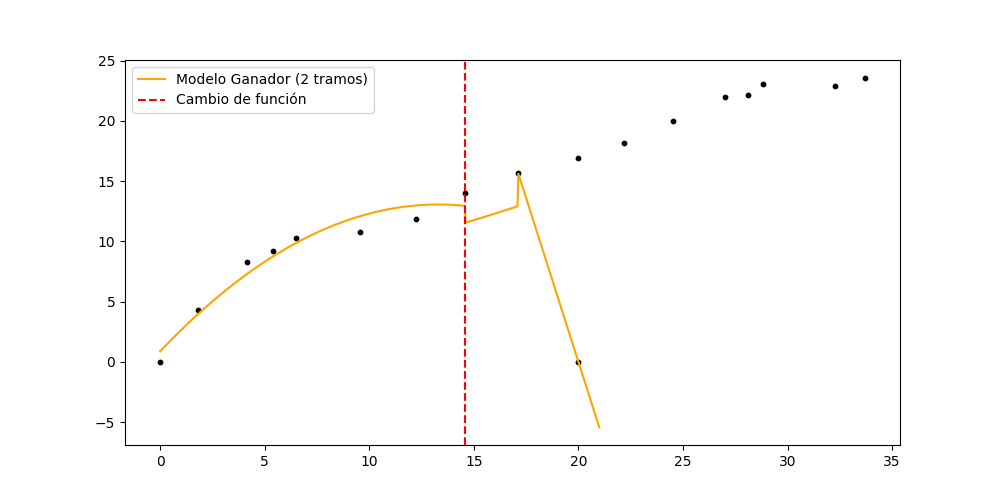
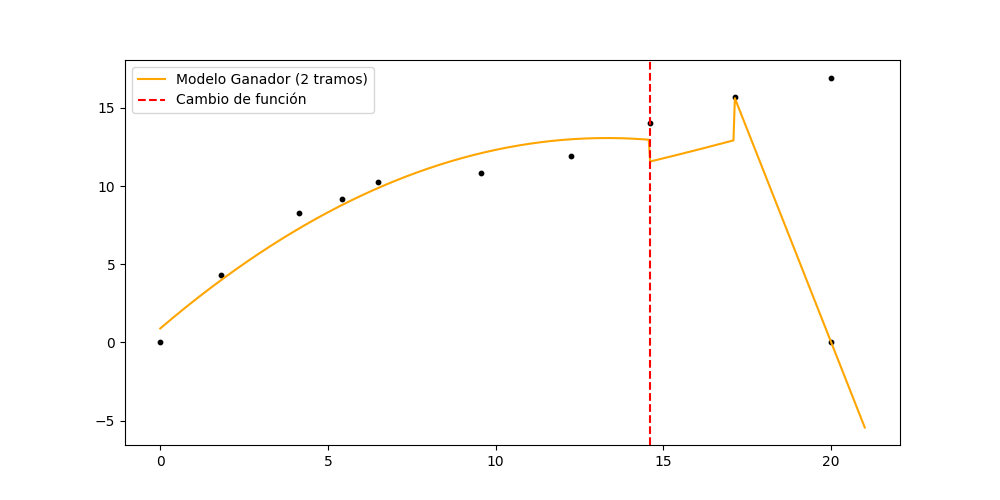
"explicaciones y modi en ajuste puente 2"

diff --git a/tp.py b/tp.py
@@ -17,11 +17,17 @@ def leer_csv(ruta):
 
 
 def limpiar_y_transformar(puntos, idx_p1, idx_p2):
+    """
+    Transforma puntos en píxeles a metros.
+    
+    El puente cubre 20 metros (de 0 a 20 m), medido entre los apoyos.
+    Se usan los puntos en idx_p1 e idx_p2 como referencias para calibrar.
+    """
     p1_x, p1_y = puntos[idx_p1]
     p2_x, p2_y = puntos[idx_p2]
 
     distancia_px = math.sqrt((p2_x - p1_x)**2 + (p2_y - p1_y)**2)
-    factor = 20.0 / distancia_px
+    factor = 20.0 / distancia_px  # 20 metros entre apoyos del puente
 
     puntos_metros = []
 
@@ -85,104 +91,79 @@ def construir_p1(puntos_metros):
 def cuadratica_neg(x, a, b, c):
     return a * x**2 + b * x + c
 
-# def construir_p2(puntos_metros):
-#     x2 = np.array([p[0] for p in puntos_metros])
-#     y2 = np.array([p[1] for p in puntos_metros])
-# 
-#     # Ajuste Tramo 1 (P1 a P8 -> índices 0 a 7)
-#     popt_m1_t1, _ = curve_fit(cuadratica_neg, x2[:8], y2[:8])
-# 
-#     # Ajuste Tramo 2 (P8 a P18 -> índices 7 a 17)
-#     popt_m1_t2, _ = curve_fit(cuadratica_neg, x2[7:18], y2[7:18])
-# 
-#     # Predicción Modelo 1
-#     pred_m1 = np.concatenate([
-#         cuadratica_neg(x2[:8], *popt_m1_t1),
-#         cuadratica_neg(x2[8:18], *popt_m1_t2)
-#     ])
-# 
-#     # Ajuste una sola cuadrática para el cauce principal
-#     popt_m2, _ = curve_fit(cuadratica_neg, x2[:18], y2[:18])
-# 
-#     # Predicción Modelo 2
-#     pred_m2 = cuadratica_neg(x2[:18], *popt_m2)
-# 
-#     rmse_m1 = np.sqrt(mean_squared_error(y2[:18], pred_m1))
-#     rmse_m2 = np.sqrt(mean_squared_error(y2[:18], pred_m2))
-# 
-#     print(f"Error Modelo 1 (2 tramos): {rmse_m1:.4f}")
-#     print(f"Error Modelo 2 (1 tramo): {rmse_m2:.4f}")
-# 
-#     # 1. Identificamos el punto de quiebre (P8) en metros para redondearlo
-#     X_CORTE = 15.0 # Valor redondo sugerido según tu gráfico anterior
-# 
-#     def f(x):
-#         if x <= X_CORTE:
-#             # Primera parábola (Tramo P1 a P8)
-#             return float(cuadratica_neg(x, *popt_m1_t1))
-#         elif x <= 21.0:
-#             # Segunda parábola (Tramo P8 a P18)como
-#             # Cubrimos hasta el metro 21 para que Simpson cierre bien
-#             return float(cuadratica_neg(x, *popt_m1_t2))
-#         else:
-#             return 0.0
-#     return f, x2, y2, X_CORTE, rmse_m2, rmse_m1
-# La función partida final del Puente 2 usará el modelo con menor RMSE.
+def construir_p2(puntos_metros):
+    """
+    Construye la función partida para el Puente 2.
+    
+    Solo considera puntos en [0, 20] m porque:
+    - El puente tiene una luz de 20 m (especificado en el enunciado)
+    - Dominio de integración con Simpson 3/8: [0, 20]
+    - Puntos fuera de este rango están fuera del puente
+    
+    Compara dos modelos:
+    - Modelo A: 2 cuadráticas + 1 recta lineal
+    - Modelo B: 1 cuadrática + 1 recta lineal
+    
+    Elige el de menor RMSE.
+    """
+    x2 = np.array([p[0] for p in puntos_metros])
+    y2 = np.array([p[1] for p in puntos_metros])
+    
+    # Identificamos puntos clave según tu tabla
+    # x=0 (P1), x=14.59 (P8), x=17.12 (P9), x=20.0 (P10/Apoyo)
+    idx_p8 = 7
+    idx_p9 = 8
+    x_p8 = x2[idx_p8]
+    x_p9 = x2[idx_p9]
+    y_p9 = y2[idx_p9]
 
-# def construir_p2(puntos_metros):
-#     x2 = np.array([p[0] for p in puntos_metros])
-#     y2 = np.array([p[1] for p in puntos_metros])
-#     
-#     # Identificamos puntos clave según tu tabla
-#     # x=0 (P1), x=14.59 (P8), x=17.12 (P9), x=20.0 (P10/Apoyo)
-#     idx_p8 = 7
-#     idx_p9 = 8
-#     x_p8 = x2[idx_p8]
-#     x_p9 = x2[idx_p9]
-#     y_p9 = y2[idx_p9]
-# 
-#     # --- MODELO A: 2 Cuadráticas + 1 Lineal ---
-#     popt_a1, _ = curve_fit(cuadratica_neg, x2[:8], y2[:8])      # P1 a P8
-#     popt_a2, _ = curve_fit(cuadratica_neg, x2[7:18], y2[7:18]) # P8 a P18
-#     
-#     def modelo_a(x):
-#         if x <= x_p8:
-#             return float(cuadratica_neg(x, *popt_a1))
-#         elif x <= x_p9:
-#             return float(cuadratica_neg(x, *popt_a2))
-#         else:
-#             # FUNCIÓN LINEAL INTERPOLADA: une P9 con el apoyo P2 (20, 0)
-#             pendiente = (0 - y_p9) / (20.0 - x_p9)
-#             return float(y_p9 + pendiente * (x - x_p9))
-# 
-#     # --- MODELO B: 1 Cuadrática + 1 Lineal ---
-#     popt_b, _ = curve_fit(cuadratica_neg, x2[:18], y2[:18]) # Una sola para todo
-#     
-#     def modelo_b(x):
-#         if x <= x_p9:
-#             return float(cuadratica_neg(x, *popt_b))
-#         else:
-#             pendiente = (0 - y_p9) / (20.0 - x_p9)
-#             return float(y_p9 + pendiente * (x - x_p9))
-# 
-#     # --- CÁLCULO DE ERRORES (Punto c.ii.3) ---
-#     # Evaluamos solo en los puntos dentro del puente (x <= 20)
-#     x_eval = x2[x2 <= 20]
-#     y_eval = y2[x2 <= 20]
-#     
-#     rmse_a = np.sqrt(mean_squared_error(y_eval, [modelo_a(xi) for xi in x_eval]))
-#     rmse_b = np.sqrt(mean_squared_error(y_eval, [modelo_b(xi) for xi in x_eval]))
-#     
-#     print(f"RMSE Modelo A (2 cuadráticas): {rmse_a:.4f}")
-#     print(f"RMSE Modelo B (1 cuadrática): {rmse_b:.4f}")
-# 
-#     # Elegimos el de menor error
-#     if rmse_a < rmse_b:
-#         print("Ganador: Modelo A")
-#         return modelo_a, x2, y2, x_p8, rmse_a, rmse_b
-#     else:
-#         print("Ganador: Modelo B")
-#         return modelo_b, x2, y2, x_p8, rmse_a, rmse_b
+    # --- MODELO A: 2 Cuadráticas + 1 Lineal ---
+    popt_a1, _ = curve_fit(cuadratica_neg, x2[:8], y2[:8])      # P1 a P8
+    popt_a2, _ = curve_fit(cuadratica_neg, x2[7:18], y2[7:18]) # P8 a P18
+    
+    def modelo_a(x):
+        if x <= x_p8:
+            return float(cuadratica_neg(x, *popt_a1))
+        elif x <= x_p9:
+            return float(cuadratica_neg(x, *popt_a2))
+        else:
+            # FUNCIÓN LINEAL INTERPOLADA: une P9 con el apoyo P2 (20, 0)
+            pendiente = (0 - y_p9) / (20.0 - x_p9)
+            return float(y_p9 + pendiente * (x - x_p9))
+
+    # --- MODELO B: 1 Cuadrática + 1 Lineal ---
+    popt_b, _ = curve_fit(cuadratica_neg, x2[:18], y2[:18]) # Una sola para todo
+    
+    def modelo_b(x):
+        if x <= x_p9:
+            return float(cuadratica_neg(x, *popt_b))
+        else:
+            pendiente = (0 - y_p9) / (20.0 - x_p9)
+            return float(y_p9 + pendiente * (x - x_p9))
+
+    # --- CÁLCULO DE ERRORES (Punto c.ii.3) ---
+    # Evaluamos solo en los puntos dentro del puente (x <= 20)
+    mask_puente = x2 <= 20
+    x_eval = x2[mask_puente]
+    y_eval = y2[mask_puente]
+    
+    rmse_a = np.sqrt(mean_squared_error(y_eval, [modelo_a(xi) for xi in x_eval]))
+    rmse_b = np.sqrt(mean_squared_error(y_eval, [modelo_b(xi) for xi in x_eval]))
+    
+    print(f"RMSE Modelo A (2 cuadráticas): {rmse_a:.4f}")
+    print(f"RMSE Modelo B (1 cuadrática): {rmse_b:.4f}")
+
+    # Elegimos el de menor error
+    # Devolvemos SOLO los puntos dentro del puente [0, 20]
+    x2_filtrado = x2[mask_puente]
+    y2_filtrado = y2[mask_puente]
+    
+    if rmse_a < rmse_b:
+        print("Ganador: Modelo A")
+        return modelo_a, x2_filtrado, y2_filtrado, x_p8, rmse_a, rmse_b
+    else:
+        print("Ganador: Modelo B")
+        return modelo_b, x2_filtrado, y2_filtrado, x_p8, rmse_a, rmse_b
 
 def simpson_38_final(f, limite_b, h=1):
     n = int(limite_b / h) # n = 21 si limite_b es 21